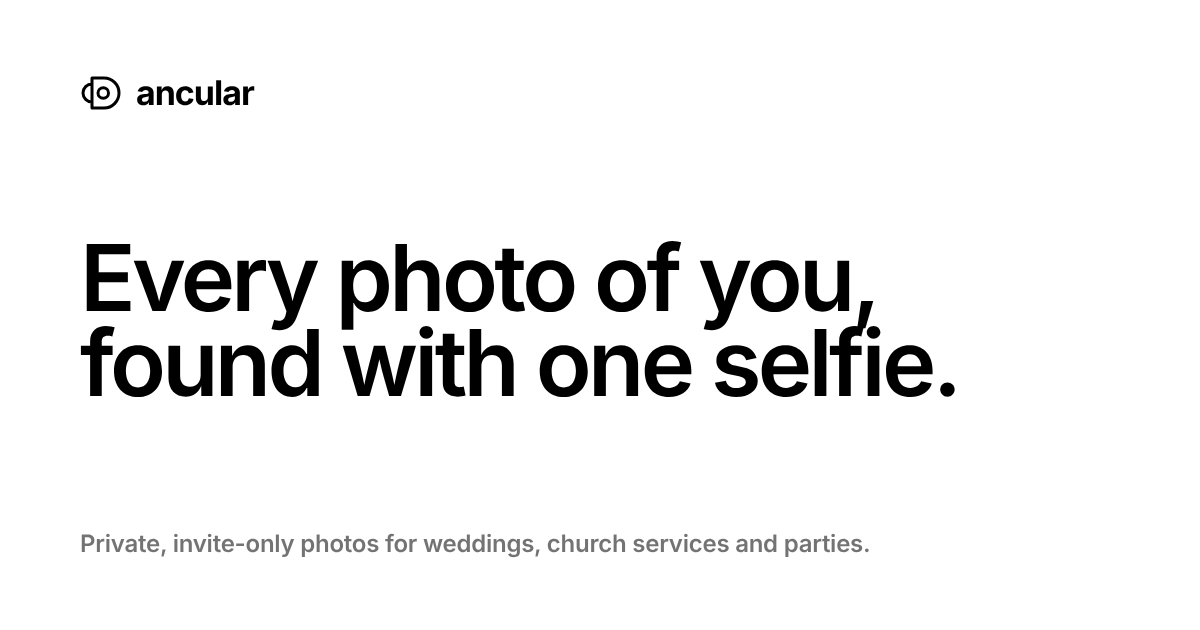
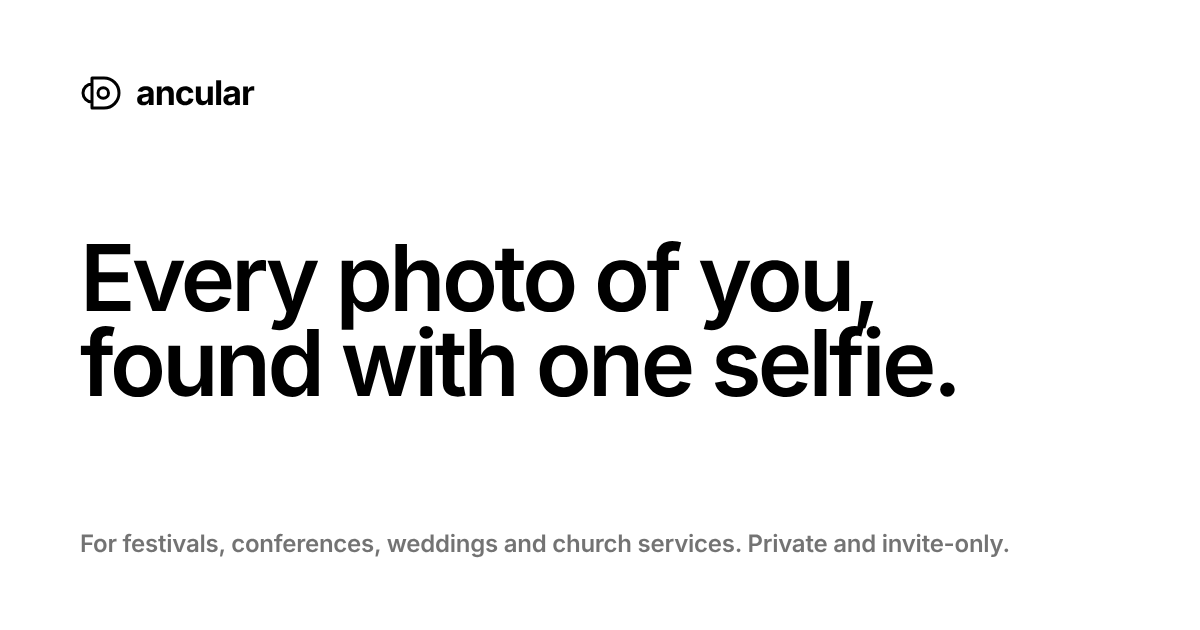
Landing grid: eight big-event types, photos stored in the app
- Festivals, weddings, conferences, graduations, travel groups, raves
  and parties, church services, tech gatherings: events too big for a
  group chat, where Ancular earns its place
- Photos from Pexels saved in /public/landing as 600px and 1200px WebP
  (hotlinking the Pexels CDN didn't load)
- Copy is global: hero names big events, "Who it's for" is organisers,
  photographers, churches and communities, footer "For events everywhere"
- Link-preview image text updated

Claude-Session: https://claude.ai/code/session_01Lmp5NxkB2QLYJjp4ByFzYL

Changed region(s): [[0.0617, 0.8444, 0.8325, 0.9048]]

diff --git a/components/landing/EventGrid.tsx b/components/landing/EventGrid.tsx
@@ -1,36 +1,35 @@
 /**
  * Landing-page media grid, laid out like swipe.hex's cards: a photo with a
- * two-line caption under it. Sample photos from Pexels (free to use), served
- * from the Pexels CDN. Tiles marked "You" show what a guest's own results feel like.
+ * two-line caption. Each tile is a kind of event too big for a WhatsApp group,
+ * which is where Ancular earns its place. Sample photos from Pexels, stored in
+ * /public/landing at 600px and 1200px wide.
  */
 
-type Tile = { id: number; w: number; h: number; alt: string; title: string; sub: string; you?: boolean };
+type Tile = { file: string; w: number; h: number; alt: string; title: string; sub: string };
 
+// Order fills four columns top to bottom, so each column pairs a wide and a tall photo.
 const TILES: Tile[] = [
-  { id: 29083272, w: 800, h: 1351, alt: "Couple in traditional wedding outfits holding hands", title: "Bride and groom", sub: "Traditional wedding, 11:20am", you: true },
-  { id: 6173819, w: 800, h: 533, alt: "Woman dancing at a party", title: "Dance floor", sub: "Birthday party, 10:45pm" },
-  { id: 17223872, w: 800, h: 1000, alt: "Bride with her bridesmaids", title: "The bride and her girls", sub: "Wedding, 2:05pm" },
-  { id: 7471511, w: 800, h: 533, alt: "Women carrying a ceremonial plate at a family celebration", title: "Mehndi night", sub: "Family celebration" },
-  { id: 9301852, w: 800, h: 1000, alt: "Bride in kente cloth and beads", title: "Getting ready", sub: "Ghanaian traditional wedding", you: true },
-  { id: 20367616, w: 800, h: 482, alt: "Bridesmaids in matching gele and outfits holding fans", title: "Aso-ebi crew", sub: "Reception, 4:12pm", you: true },
-  { id: 8815002, w: 800, h: 534, alt: "Pastor speaking in front of a choir and congregation", title: "Thanksgiving service", sub: "Sunday, 11:00am" },
-  { id: 33103894, w: 800, h: 1067, alt: "Couple dancing at an outdoor party with balloons", title: "Garden party", sub: "Saturday, 4:30pm" },
+  { file: "festival", w: 1200, h: 800, alt: "Crowd in front of a festival stage with fireworks", title: "Festivals", sub: "Find yourself in a crowd of thousands" },
+  { file: "wedding", w: 1200, h: 1500, alt: "Couple dancing at night, surrounded by guests holding up phone lights", title: "Weddings", sub: "Hundreds of guests, thousands of photos" },
+  { file: "conference", w: 1200, h: 1499, alt: "Packed conference audience", title: "Conferences", sub: "Every speaker, every attendee" },
+  { file: "graduation", w: 1200, h: 800, alt: "Graduates in caps and gowns posing together", title: "Graduations", sub: "Every graduate, every family" },
+  { file: "travel", w: 1200, h: 675, alt: "Friends posing for a photo on a trip", title: "Travel groups", sub: "One album for the whole trip" },
+  { file: "rave", w: 1200, h: 1499, alt: "Friends at the front of a rave, lit in neon", title: "Raves and parties", sub: "Shot all night, found by morning" },
+  { file: "church", w: 1200, h: 1499, alt: "Church congregation worshipping with hands raised", title: "Church services", sub: "Every Sunday, every member" },
+  { file: "tech", w: 1200, h: 800, alt: "People at tables watching a presentation at a meetup", title: "Tech gatherings", sub: "Meetups, hackathons and summits" },
 ];
-
-const src = (id: number, w: number) =>
-  `https://images.pexels.com/photos/${id}/pexels-photo-${id}.jpeg?auto=compress&cs=tinysrgb&w=${w}`;
 
 export function EventGrid({ className = "" }: { className?: string }) {
   return (
     <div className={className}>
       <ul className="columns-2 gap-2 md:columns-4 md:gap-8">
         {TILES.map((t, i) => (
-          <li key={t.id} className="mb-5 break-inside-avoid md:mb-8">
-            <div className="media relative" style={{ aspectRatio: `${t.w} / ${t.h}` }}>
+          <li key={t.file} className="mb-5 break-inside-avoid md:mb-8">
+            <div className="media" style={{ aspectRatio: `${t.w} / ${t.h}` }}>
               {/* eslint-disable-next-line @next/next/no-img-element */}
               <img
-                src={src(t.id, 800)}
-                srcSet={`${src(t.id, 400)} 400w, ${src(t.id, 800)} 800w`}
+                src={`/landing/${t.file}-1200.webp`}
+                srcSet={`/landing/${t.file}-600.webp 600w, /landing/${t.file}-1200.webp 1200w`}
                 sizes="(min-width: 768px) 25vw, 50vw"
                 alt={t.alt}
                 width={t.w}
@@ -38,9 +37,6 @@ export function EventGrid({ className = "" }: { className?: string }) {
                 loading={i < 4 ? "eager" : "lazy"}
                 className="h-full w-full object-cover"
               />
-              {t.you && (
-                <span className="absolute left-2 top-2 rounded-full bg-white px-2 py-0.5 text-[11px] font-semibold">You</span>
-              )}
             </div>
             <p className="t-item mt-2">{t.title}</p>
             <p className="t-item-sub">{t.sub}</p>

diff --git a/app/page.tsx b/app/page.tsx
@@ -10,7 +10,7 @@ const steps = [
   },
   {
     title: "Share one invite link",
-    body: "Put the QR code on the programme, the screen or the WhatsApp group. Only people with the link can ask to join, and you can approve each one.",
+    body: "Put the QR code on the programme, the big screen, the badges or the group chat. Only people with the link can ask to join, and you can approve each one.",
   },
   {
     title: "Guests take one selfie",
@@ -72,7 +72,7 @@ export default function Home() {
         <div className="pb-10 pt-10 md:pb-16 md:pt-20">
           <h1 className="display max-w-[13ch]">Every photo of you, found with one selfie.</h1>
           <div className="mt-6 max-w-md">
-            <p className="t-lead">Private, invite-only photos for weddings, church services and parties.</p>
+            <p className="t-lead">For events too big for a group chat: festivals, conferences, weddings, church services.</p>
             <p className="t-lead t-muted">Each guest sees only the photos they appear in.</p>
           </div>
           <div className="mt-8 flex flex-wrap gap-2">
@@ -87,9 +87,9 @@ export default function Home() {
 
         <EventGrid className="pb-10 md:pb-16" />
 
-        <Section title="2,000 photos. 500 guests. Nobody scrolls that far.">
+        <Section title="20,000 photos. 3,000 people. Nobody scrolls that far.">
           <p className="t-lead t-muted max-w-xl">
-            One shared gallery link is where photos go to be forgotten. Aunty gives up after forty pictures and never finds the three great ones she&apos;s in. Ancular does the searching for her.
+            A shared gallery link is where event photos go to be forgotten. People give up after forty pictures and never find the three great ones they&apos;re in. Ancular does the searching for each of them.
           </p>
         </Section>
 
@@ -108,10 +108,10 @@ export default function Home() {
         <Section title="Who it's for">
           <div className="grid gap-8 sm:grid-cols-3 sm:gap-6">
             <div>
-              <h3 className="t-item">Church media teams</h3>
+              <h3 className="t-item">Organisers</h3>
               <p className="t-item-sub mt-1">
-                Every Sunday service, vigil and convention gets its own album. Members find their own photos, and your
-                team stops answering &ldquo;please send my picture&rdquo; on WhatsApp all week.
+                Festivals, conferences, graduations and meetups. Attendees find their own photos and post them, which is
+                the best promotion next year&apos;s event can get.
               </p>
             </div>
             <div>
@@ -122,16 +122,16 @@ export default function Home() {
               </p>
             </div>
             <div>
-              <h3 className="t-item">Families and communities</h3>
+              <h3 className="t-item">Churches and communities</h3>
               <p className="t-item-sub mt-1">
-                Weddings, naming ceremonies, mehndi nights, anniversaries and community festivals, from Lagos to
-                London. Everyone gets their own photos without chasing the WhatsApp group.
+                Every service, convention and gathering gets its own album. Members find their own photos, and the
+                media team stops answering &ldquo;please send my picture&rdquo; all week.
               </p>
             </div>
           </div>
         </Section>
 
-        <Section id="privacy" title="Built so families can trust it">
+        <Section id="privacy" title="Built so people can trust it">
           <dl className="border-t border-hairline">
             {promises.map((p) => (
               <div key={p.title} className="grid gap-1 border-b border-hairline py-4 sm:grid-cols-[1fr_1.4fr] sm:gap-6">

diff --git a/app/layout.tsx b/app/layout.tsx
@@ -7,7 +7,7 @@ export const metadata: Metadata = {
     template: "%s · Ancular",
   },
   description:
-    "Private, invite-only photo sharing for weddings, church services and parties. Guests take one selfie and get every photo they appear in.",
+    "Private, invite-only photo sharing for festivals, conferences, weddings and church services. Guests take one selfie and get every photo they appear in.",
   metadataBase: new URL(process.env.NEXT_PUBLIC_SITE_URL ?? "http://localhost:3000"),
   openGraph: {
     title: "Ancular",

diff --git a/components/layout/SiteFooter.tsx b/components/layout/SiteFooter.tsx
@@ -9,7 +9,7 @@ export function SiteFooter() {
           <span className="text-ink">
             <LogoMark size={14} solid />
           </span>
-          Ancular. From Lagos to London.
+          Ancular. For events everywhere.
         </div>
         <nav className="-mx-2 flex">
           <Link href="/privacy" className="nav-link">
